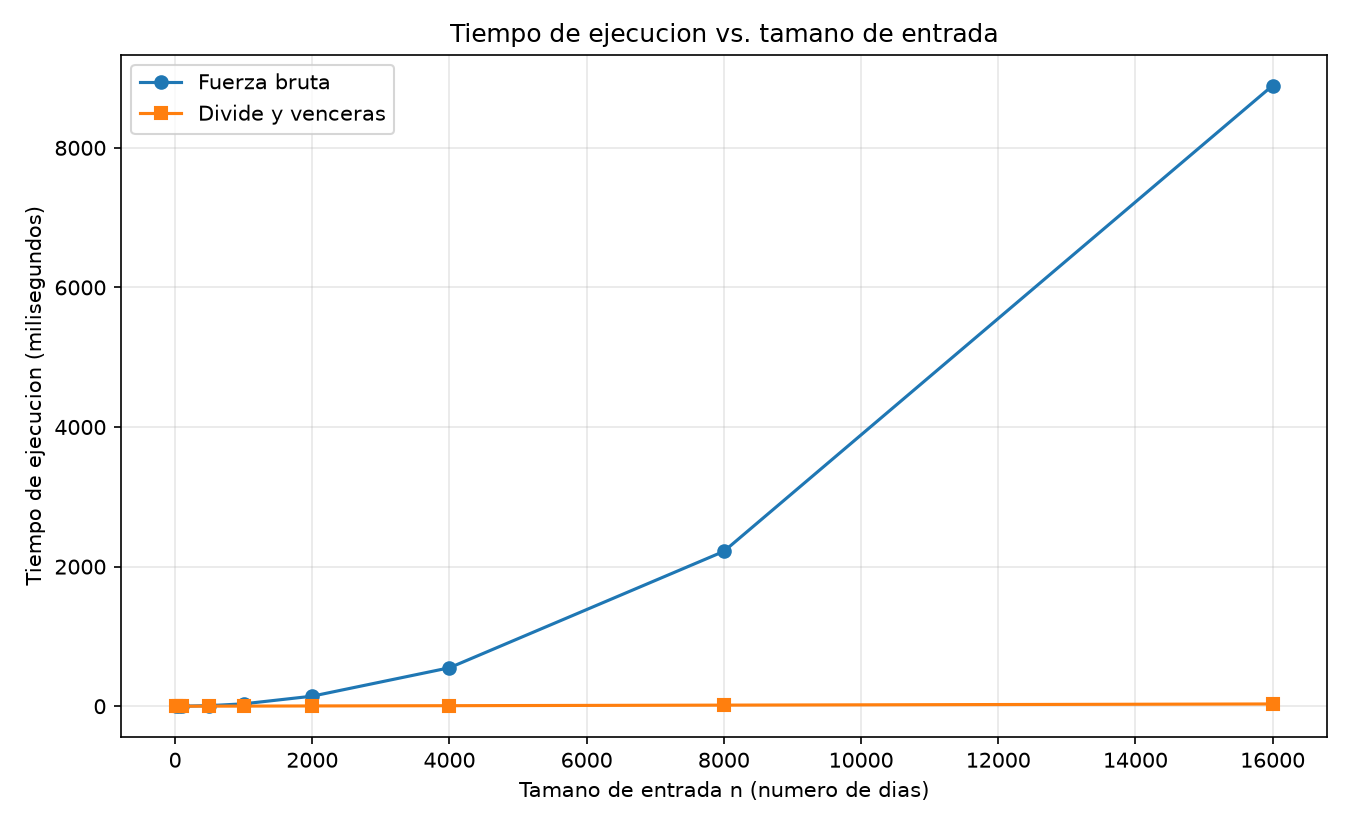
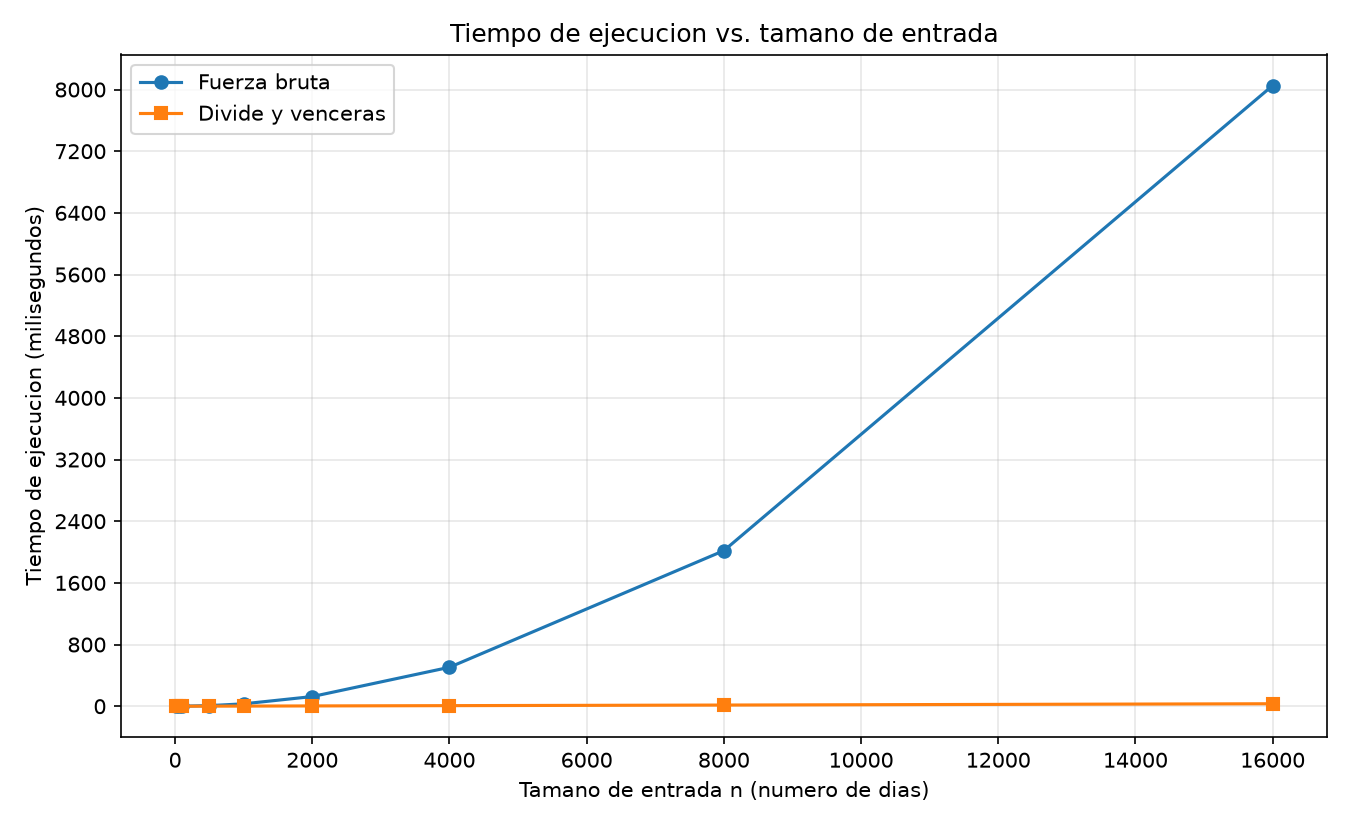
Mejorar representacion de la grafica para el eje y, mostrando mas valores para el analisis

diff --git a/laboratorios/lab2-divide-y-vencer/medicion.py b/laboratorios/lab2-divide-y-vencer/medicion.py
@@ -5,6 +5,7 @@ import time
 from typing import Callable
 
 import matplotlib.pyplot as plt
+from matplotlib.ticker import MaxNLocator
 
 from subarreglo import subarreglo_fuerza_bruta, subarreglo_maximo
 
@@ -138,6 +139,7 @@ def graficar(
     plt.xlabel("Tamano de entrada n (numero de dias)")
     plt.ylabel("Tiempo de ejecucion (milisegundos)")
     plt.grid(True, which="both", alpha=0.3)
+    plt.gca().yaxis.set_major_locator(MaxNLocator(nbins=12, prune=None))
     plt.legend()
     plt.tight_layout()
     plt.savefig(ruta, dpi=150)
